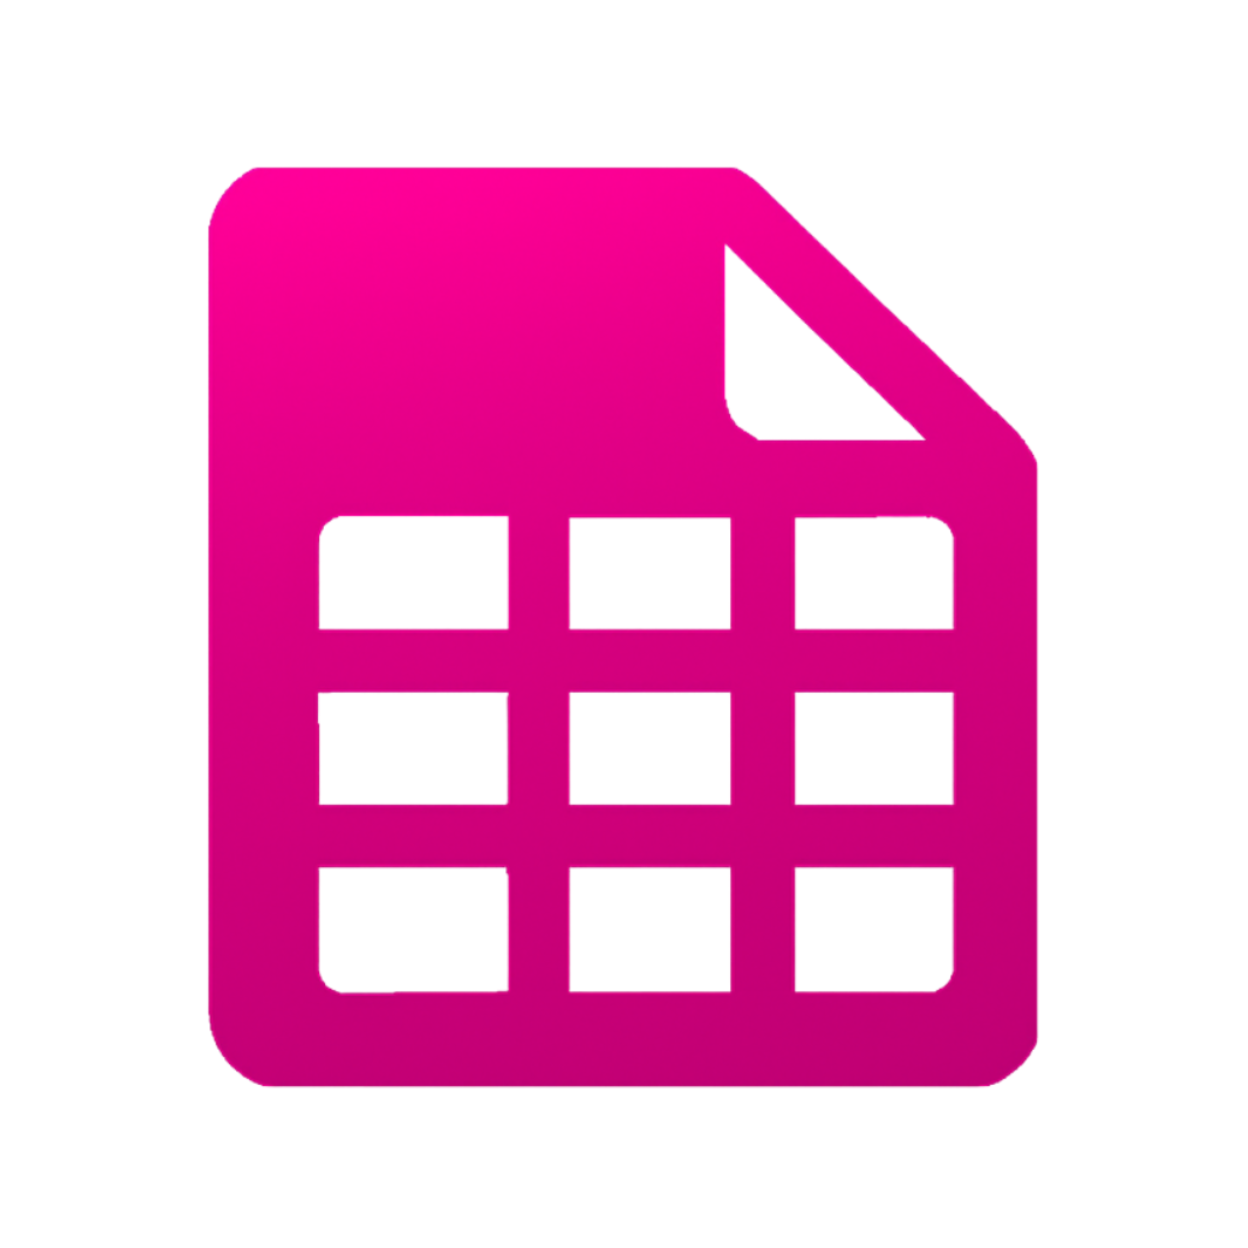
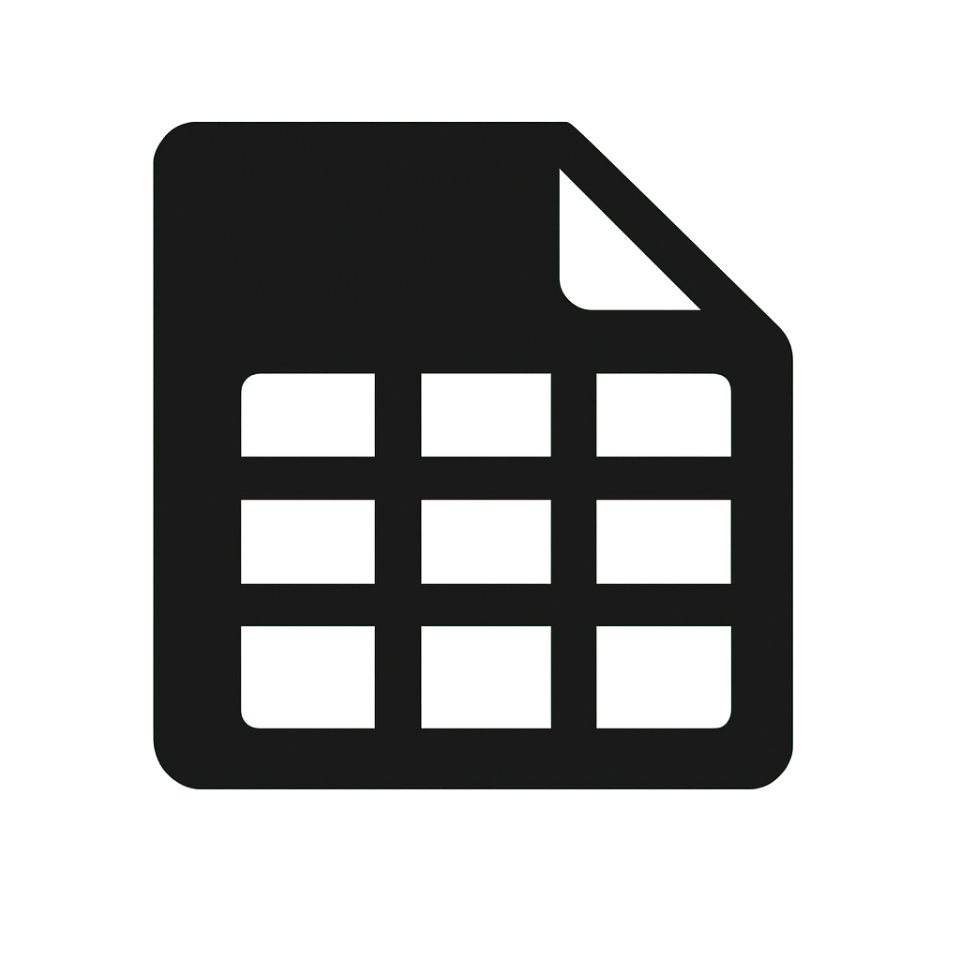
react-chatflow

diff --git a/components/chatbot/ChatModal.js b/components/chatbot/ChatModal.js
@@ -116,8 +116,8 @@ export default function ChatModal({ onClose }) {
         <Toolbar variant="dense" sx={CHAT_MODAL_STYLES.toolBar}>
           <Box sx={CHAT_MODAL_STYLES.brandBox}>
             <Box sx={CHAT_MODAL_STYLES.brandImageContainer}>
-              {/* Cambia /logo.png por la ruta de tu logo */}
-              <Image src="/logo.png" alt="Talberos Logo" width={28} height={28} />
+              {/* Cambia /chat.png por la ruta de tu logo */}
+              <Image src="/chat.png" alt="Talberos Logo" width={28} height={28} />
             </Box>
             <Typography variant="subtitle1" sx={CHAT_MODAL_STYLES.brandTitle}>
               Talberos LIBRE

diff --git a/components/chatbot/FloatingChatIcon.js b/components/chatbot/FloatingChatIcon.js
@@ -273,7 +273,7 @@ export default function FloatingChatIcon({ onClick }) {
       >
         <Box
           component="img"
-          src="/chat.png"
+          src="/logo.png"
           alt="Chat Icon"
           sx={{
             width: ICON_SIZE * 0.6,

diff --git a/components/chatbot/README.md b/components/chatbot/README.md
@@ -1,0 +1,208 @@
+# Chatbot con Flujos de Conversación en React
+
+Este repositorio contiene un componente de chat diseñado para aplicaciones en React y Next.js. Utiliza un sistema de estados para guiar al usuario a través de diferentes pantallas, preguntas y respuestas, permitiendo una experiencia de asistente conversacional adaptable.
+
+---
+
+## Índice
+1. [Descripción General](#descripción-general)
+2. [Características Principales](#características-principales)
+3. [Estructura de Carpetas](#estructura-de-carpetas)
+4. [Instalación](#instalación)
+5. [Uso](#uso)
+   - [Integración en la App](#integración-en-la-app)
+   - [Personalización de Estilos](#personalización-de-estilos)
+6. [Ejemplo Rápido](#ejemplo-rápido)
+7. [Arquitectura y Principios](#arquitectura-y-principios)
+8. [Preguntas Frecuentes](#preguntas-frecuentes)
+9. [Contribución](#contribución)
+10. [Licencia](#licencia)
+
+---
+
+## Descripción General
+El sistema de chat contenido en este repositorio permite gestionar **conversaciones guiadas** en una aplicación React. Utiliza una máquina de estados para presentar preguntas, respuestas y opciones al usuario. Con él, se pueden crear recorridos interactivos, asistentes virtuales y tutoriales dentro de un mismo componente.
+
+Entre los objetivos principales, se encuentran la **modularidad**, la **configuración centralizada** de estilos y la **integración sencilla** con cualquier proyecto que use React o Next.js.
+
+---
+
+## Características Principales
+- **Asistente Interactivo**: El usuario envía entradas y recibe respuestas basadas en el estado actual.
+- **Opciones en Pantalla**: Botones para navegar rápidamente entre diferentes pantallas o temas.
+- **Configuración de Estilos en un Solo Archivo**: Facilita la modificación de colores, fuentes y layouts.
+- **Soporte Markdown**: Se pueden incluir listados, enlaces e incluso realces especiales usando notación Markdown.
+- **Ícono Flotante Arrastrable**: Abre/cierra el chat desde cualquier parte de la pantalla.
+- **Enfoque Orientado a Flujos**: Cada interacción del usuario puede dirigirlo a un nuevo estado definido en un archivo de configuración.
+
+---
+
+## Estructura de Carpetas
+La organización interna facilita la lectura y el mantenimiento:
+
+```
+components/
+  └─ chatbot/
+      ├─ ChatModal.jsx          (Componente principal del chat)
+      ├─ ChatMessage.jsx        (Mensajes del usuario y asistente)
+      ├─ ChatOptions.jsx        (Botones de opciones)
+      ├─ ChatStylesConfig.js    (Estilos centralizados)
+      ├─ ChatFlowManager.js     (Maneja la lógica de transición de estados)
+      ├─ steps/
+      │   ├─ index.js           (Agrupa todos los pasos)
+      │   ├─ menu/
+      │   ├─ features/
+      │   ├─ faq/
+      │   ├─ saberMas/
+      │   ├─ contact/
+      │   └─ final/
+      ├─ common/
+      │   ├─ ButtonsConfig.js   (Textos de los botones)
+      │   └─ FlowUtils.js       (Acciones comunes)
+      └─ FloatingChatIcon.js    (Ícono flotante para abrir el chat)
+```
+
+Cada subcarpeta en `steps/` representa un **bloque de conversación** o un **estado**.
+
+---
+
+## Instalación
+1. Clonar o descargar este repositorio.
+2. Instalar dependencias:
+   ```bash
+   npm install
+   # o
+   yarn install
+   ```
+3. Iniciar la aplicación (en caso de que exista un demo incluido):
+   ```bash
+   npm run dev
+   # o
+   yarn dev
+   ```
+
+---
+
+## Uso
+
+### Integración en la App
+1. **Copiar** la carpeta `components/chatbot` en tu proyecto.
+2. **Importar** y usar en tu layout principal o en una página específica:
+   ```jsx
+   import { useState } from 'react';
+   import ChatModal from './components/chatbot/ChatModal';
+   import FloatingChatIcon from './components/chatbot/FloatingChatIcon';
+
+   export default function MyApp() {
+     const [openChat, setOpenChat] = useState(false);
+
+     const handleOpenChat = () => {
+       setOpenChat(true);
+     };
+
+     const handleCloseChat = () => {
+       setOpenChat(false);
+       // Emite un evento para mostrar de nuevo el ícono flotante
+       window.dispatchEvent(new Event('show-floating-icon'));
+     };
+
+     return (
+       <>
+         {openChat && <ChatModal onClose={handleCloseChat} />}
+         <FloatingChatIcon onClick={handleOpenChat} />
+       </>
+     );
+   }
+   ```
+3. Ajustar rutas de importación según tu estructura de carpetas.
+4. Verificar que el ícono flotante aparezca y abra el chat al hacer clic.
+
+### Personalización de Estilos
+- El archivo `ChatStylesConfig.js` agrupa **todos los colores**, tamaños y gradientes. Modifícalo para:
+  - Cambiar la paleta de colores.
+  - Ajustar alturas/anchos del modal.
+  - Personalizar las propiedades de los botones.
+- Reemplaza `logo.png` con tu propia imagen en la carpeta `public/`, si lo deseas.
+
+---
+
+## Ejemplo Rápido
+En la carpeta `example/` (o la que hayas definido) podrías encontrar una integración mínima:
+
+```jsx
+import React, { useState } from 'react';
+import ChatModal from '../components/chatbot/ChatModal';
+import FloatingChatIcon from '../components/chatbot/FloatingChatIcon';
+
+export default function ExamplePage() {
+  const [chatVisible, setChatVisible] = useState(false);
+
+  const openChat = () => {
+    setChatVisible(true);
+  };
+
+  const closeChat = () => {
+    setChatVisible(false);
+    window.dispatchEvent(new Event('show-floating-icon'));
+  };
+
+  return (
+    <main>
+      <h1>Ejemplo de Integración</h1>
+      {chatVisible && <ChatModal onClose={closeChat} />}
+      <FloatingChatIcon onClick={openChat} />
+    </main>
+  );
+}
+```
+
+Este código muestra un ícono flotante que, al hacer clic, despliega el chat con las pantallas configuradas.
+
+---
+
+## Arquitectura y Principios
+Este chat se diseñó teniendo en cuenta:
+- **Modularidad**: Los mensajes y opciones están separados en `steps/`, facilitando la modificación.
+- **SOLID**: Cada archivo cumple una responsabilidad específica, promoviendo fácil mantenimiento.
+- **Estilos Unificados**: Se utiliza un único archivo para configurar el look & feel del chat.
+- **Hooks y React**: Uso de hooks para manejar estado y efectos.
+
+El flujo funciona a través de un archivo central (`ChatFlowManager.js`) que, a partir del estado actual y la entrada del usuario, determina el próximo estado y los mensajes a mostrar.
+
+---
+
+## Preguntas Frecuentes
+- **¿Cómo agrego un nuevo estado o paso al chat?**
+  1. Crea un archivo en `steps/` con la definición de mensajes y opciones.
+  2. Expórtalo en `steps/index.js`.
+  3. Añade la lógica en `ChatFlowManager.js` (switch-case) o la acción correspondiente en `FlowUtils.js`.
+
+- **¿Es posible cambiar los textos de los botones globalmente?**
+  - Sí, en `common/ButtonsConfig.js`.
+
+- **¿Puedo incluir enlaces o formato en las respuestas del asistente?**
+  - Sí, se utiliza `react-markdown` con `remark-gfm` para Markdown avanzado.
+
+- **¿Qué sucede si quiero ocultar el ícono flotante en un momento determinado?**
+  - Controla el estado y no montes `<FloatingChatIcon />`. Al cerrar el chat, vuelve a mostrarlo con el evento `'show-floating-icon'`.
+
+---
+
+## Contribución
+Se aceptan mejoras, optimizaciones de código, correcciones de bugs y nuevas funciones. Para contribuir:
+1. Realiza un fork de este repositorio.
+2. Crea una rama con la propuesta.
+3. Envía tu pull request para revisión.
+
+Si encuentras un problema, abre un [issue en GitHub](#) describiendo los pasos para reproducirlo.
+
+---
+
+## Licencia
+Este proyecto se distribuye bajo la [Licencia MIT](https://opensource.org/licenses/MIT). Esto implica:
+- Uso libre (incluso comercial).
+- Modificación y redistribución ilimitada.
+- Sin garantía implícita o explícita.
+
+Cualquier aporte o sugerencia es bienvenida para seguir mejorando este componente de chat.
+
